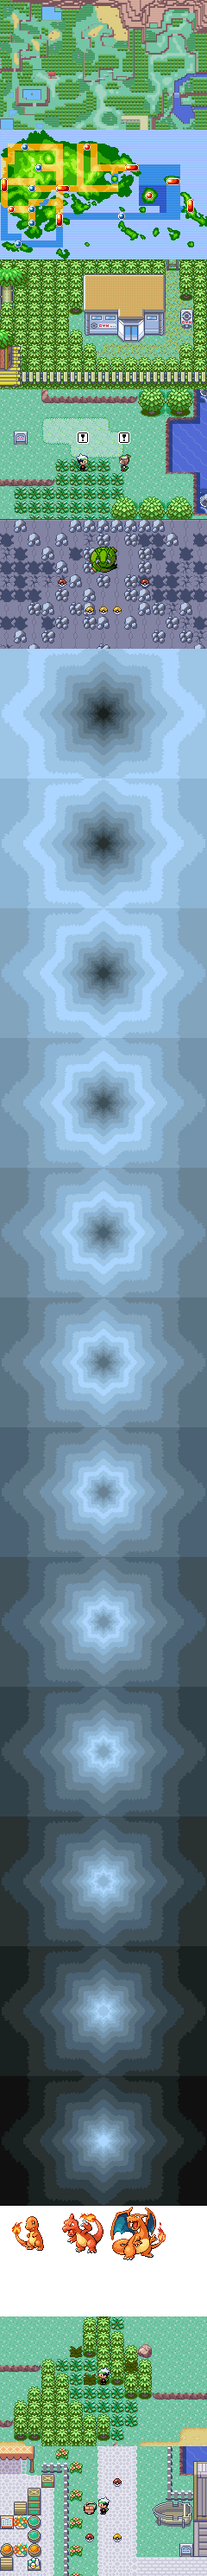
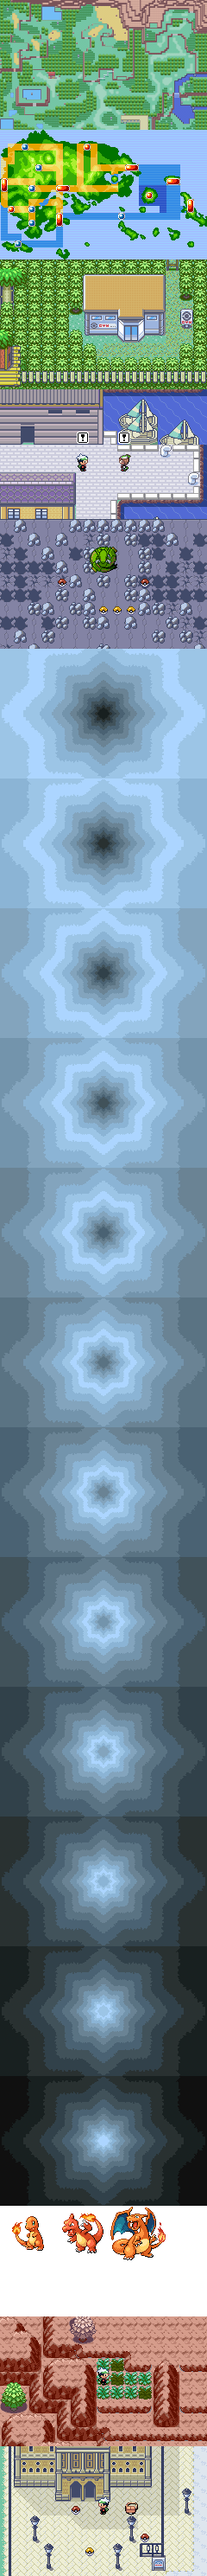
How to Play: the new sheet, the import that names it, and the exporter's places
What the commit before this one describes; it held only the file's move (a mistyped git add).

Changed region(s): [[0.0, 0.8744, 1.0, 1.0], [0.0, 0.1249, 1.0, 0.2186]]

diff --git a/web/src/ui/howto.ts b/web/src/ui/howto.ts
@@ -3,6 +3,7 @@
 // game plays out". Offered once after a player's first ROM import, and a row on the menu.
 // POK-430 gave it Cam's own sections and words, each over a picture out of the game's own
 // art (tools/br/export-howto.py's sheet), some of them moving.
+import SHEET_URL from './howto-sheet.png?url';
 import { TEXT_BLUE, TEXT_DARK, TEXT_GRAY, measure, skinSheet, wrapText, type EmeraldCanvas, type Rect } from './emerald';
 import { ROW_H, W, paintButtons, type ButtonSpec } from './screens';
 import type { DrawnScreen, Painted, Widget } from './stage';
@@ -64,8 +65,10 @@ export const PANELS: readonly Panel[] = [
   },
 ];
 
-/** tools/br/export-howto.py's sheet: its pictures, the screen's width and this tall. */
-export const SHEET = 'howto.png';
+/** tools/br/export-howto.py's sheet: its pictures, the screen's width and this tall. Named by
+ *  the build, by its bytes: a fixed name in /ui/ gets the service worker's copy first, so Cam's
+ *  11-04 play-test, a day after the new pictures went live, was still shown the old ones. */
+export const SHEET = SHEET_URL;
 export const ART_H = 150;
 /** The evolution backdrop's twelve frames, from the sheet's sixth picture down. */
 const EVO_Y = ART_H * 5;
@@ -212,7 +215,7 @@ export function howToScreen(model: () => HowToModel): DrawnScreen {
       if (artY !== undefined) c.drawUiPicture(SHEET, 0, artY, W, ART_H, art.x, art.y);
       const you = skinSheet(m.skin);
       if (panel.art === 'fog') {
-        // You, on Route 101, as the fog rolls over it.
+        // You, in Fortree, as the fog rolls over it.
         if (you) c.drawSprite(you.gfx, Math.floor((W - you.w) / 2), art.y + 96 - you.h);
         fogOver(c, art, drift, 0.6);
       } else if (panel.art === 'evolve') {

diff --git a/web/src/ui/howto.test.ts b/web/src/ui/howto.test.ts
@@ -115,6 +115,10 @@ describe('the HOW TO PLAY screen', () => {
     expect(Math.abs(top - (520 - (foot.y + foot.h)))).toBeLessThanOrEqual(1);
   });
 
+  it("asks for the sheet by the build's name, not a fixed one in /ui/ that the worker keeps", () => {
+    expect(SHEET).toMatch(/^\/.*howto-sheet.*\.png$/);
+  });
+
   it('draws each picture off the sheet, and the fog over the whole screen', () => {
     const screen = screenAt(0, 2);
     const rows: Record<string, number> = {};

diff --git a/tools/br/export-howto.py b/tools/br/export-howto.py
@@ -1,7 +1,11 @@
 #!/usr/bin/env python3
 """The HOW TO PLAY panels' pictures (POK-430), out of the game's own art.
 
-    python tools/br/export-howto.py   -> web/public/ui/howto.png
+    python tools/br/export-howto.py   -> web/src/ui/howto-sheet.png
+
+The sheet is imported by howto.ts, so the build names it by its bytes: under a name of its
+own in /ui/ a new sheet reached a player's second look, after the service worker had shown
+them the one it kept (Cam, 11-04: "This still hasn't changed").
 
 One sheet, 240 wide (the screen's width), its pictures 150 tall, top to bottom:
 
@@ -11,7 +15,7 @@ One sheet, 240 wide (the screen's width), its pictures 150 tall, top to bottom:
          its affine tilemap `map.bin` in `map.pal` (loaded at palette 7, hence the pixels'
          112 offset), at its own scale
     300  a town for the fog to roll over, Fortree City
-    450  a battle about to start: BRENDAN and MAY face to face on Route 103, the
+    450  a battle about to start: BRENDAN and MAY face to face on Slateport's harbour, the
          trainer's "!" (field_effects/pics/emotion_exclamation.png) over each
     600  an event the way a ROM shows it, at the top of Sky Pillar (src/br/br_loot.c's Spawn):
          RAYQUAZA (gfx 207, br_legend.c), its two rares as red balls and three gold balls
@@ -21,11 +25,12 @@ One sheet, 240 wide (the screen's width), its pictures 150 tall, top to bottom:
          Task_UpdateBgPalette runs while a POKéMON evolves (src/evolution_scene.c)
     2550 CHARMANDER, CHARMELEON, CHARIZARD, 64x64 each, in their own colours; under them,
          at 2614, the same three in white, the way they flash while they change
-    2678 encounters (br_patch.c): Route 123's grass with three of its darkened patches,
+    2678 encounters (br_patch.c): Jagged Pass's grass with three of its darkened patches,
          the tall grass's rustle in general_1's palette, and BRENDAN in the middle, about to
-         step on one
-    2828 item pickups: a Slateport street with two item balls, a gold one and a fallen
-         trainer's bag (br_loot.c draws a bag as BIRCH's), BRENDAN about to take the nearest
+         step on one. The red rock over Lavaridge: the town itself has no wild POKeMON, so no
+         patch ever shows there (Cam, 11-04: "I don't know, Lava Ridge or something")
+    2828 item pickups: outside the Devon building in Rustboro, two item balls, a gold one and a
+         fallen trainer's bag (br_loot.c draws a bag as BIRCH's), BRENDAN about to take the nearest
 
 A panel's pictures are all of different places (Cam, 11-03), each with its trainer in the middle.
 
@@ -39,7 +44,7 @@ from pathlib import Path
 from PIL import Image
 
 ROOT = Path(__file__).resolve().parents[2]
-OUT = ROOT / "web/public/ui/howto.png"
+OUT = ROOT / "web/src/ui/howto-sheet.png"
 MAPS = ROOT / "web/public/field-maps"
 SPRITES = ROOT / "web/public/field-sprites"
 SHEETS = json.loads((ROOT / "web/src/data/sprites.json").read_text())
@@ -47,7 +52,7 @@ SHEETS = json.loads((ROOT / "web/src/data/sprites.json").read_text())
 BANG = ROOT / "graphics/field_effects/pics/emotion_exclamation.png"
 FX = ROOT / "graphics/field_effects"
 W, H = 240, 150
-BATTLE_AT = ("ROUTE103", 160, 96)
+BATTLE_AT = ("SLATEPORT_CITY", 392, 560)
 EVO_FRAMES = range(13, 25)
 MONS = ["charmander", "charmeleon", "charizard"]
 SHEET_H = H * 5 + H * len(EVO_FRAMES) + 64 * 2 + H * 2
@@ -141,7 +146,7 @@ def event() -> Image.Image:
 
     ball, gold = frame(GFX_ITEM_BALL, 0), gold_ball()
     put(frame(GFX_RAYQUAZA, 0), 7, 4)
-    for tx, ty, piece in ((4, 4, ball), (10, 4, ball), (6, 6, gold), (7, 6, gold), (8, 6, gold)):
+    for tx, ty, piece in ((4, 4, ball), (10, 4, ball), (7, 6, gold), (8, 6, gold), (9, 6, gold)):
         put(piece, tx, ty)
     return im
 
@@ -155,21 +160,21 @@ def on_tiles(im: Image.Image):
 
 
 def encounters() -> Image.Image:
-    im = on_map("ROUTE123", 1008, 96)
+    im = on_map("JAGGED_PASS", 16, 320)
     put = on_tiles(im)
     # The rustle's second frame, the grass at its widest, reads best standing still.
     patch = paletted(FX / "pics/br_patch_tall_grass.png", jasc(FX / "palettes/general_1.pal")).crop((16, 0, 32, 16))
-    for tx, ty in ((6, 4), (9, 3), (5, 2)):
+    for tx, ty in ((8, 4), (10, 5), (8, 3)):
         put(patch, tx, ty)
-    put(frame(GFX_BRENDAN, 2), 7, 4)
+    put(frame(GFX_BRENDAN, 2, True), 7, 4)
     return im
 
 
 def pickups() -> Image.Image:
-    im = on_map("SLATEPORT_CITY", 160, 496)
+    im = on_map("RUSTBORO_CITY", 96, 192)
     put = on_tiles(im)
     ball = frame(GFX_ITEM_BALL, 0)
-    for tx, ty, piece in ((8, 2, ball), (6, 6, ball), (8, 6, gold_ball()), (6, 4, frame(GFX_BIRCHS_BAG, 0))):
+    for tx, ty, piece in ((5, 4, ball), (10, 6, ball), (6, 7, gold_ball()), (9, 4, frame(GFX_BIRCHS_BAG, 0))):
         put(piece, tx, ty)
     put(frame(GFX_BRENDAN, 2), 7, 4)
     return im

diff --git a/tools/br/README.md b/tools/br/README.md
@@ -85,7 +85,7 @@ from `web/`, which has vite-node):
 | 6 | `python tools/br/export-encounters.py` | `web/src/data/encounters.json` | `src/data/wild_encounters.json`, `evolution.h`, `species.h`, `species_names.h` |
 | 7 | `python tools/br/export-trainers.py > web/src/data/trainers.json` | the trainers on each map | each map's `scripts.inc` |
 | 8 | `python tools/br/mine-lines.py > web/src/data/lines.json` | MY VOICE's word list | NPC text |
-| 9 | `python tools/br/export-howto.py` | `web/public/ui/howto.png` | HOW TO PLAY's pictures: 3's Safari Zone, Route 101 and Route 111, 4's sheets, the region map, the evolution scene, the Charmander line |
+| 9 | `python tools/br/export-howto.py` | `web/src/ui/howto-sheet.png` | HOW TO PLAY's pictures: 3's Safari Zone and the places they're set, 4's sheets, the region map, the evolution scene, the Charmander line |
 | 10 | `python tools/br/export-menu-pan.py` | `web/src/data/menupan.json` | The main menu's pan: 3's field maps placed by `world.json`'s seams from Littleroot, and a path through the towns in gym order |
 
 Run order matters for 1 → 2, 1 → 3, and 3 and 4 → 9; the rest stand alone (5's skins name sheets that
